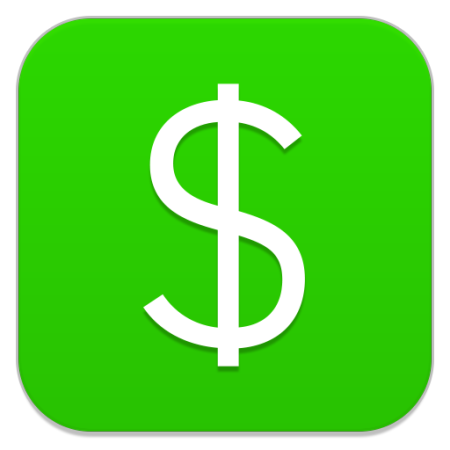
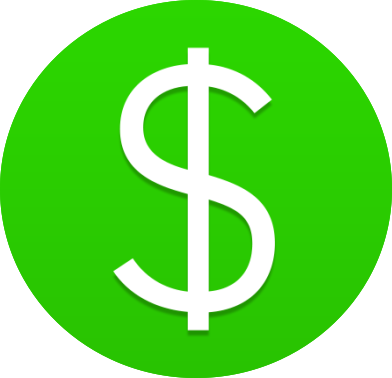
Add my qrcodes

diff --git a/components/PaymentWidget.tsx b/components/PaymentWidget.tsx
@@ -5,12 +5,11 @@ import { useState } from "react";
 
 const RoundImg = styled.img`
   border-radius: 50%;
-  /* margin: 2px; */
   position: absolute;
   left: 0;
   top: 0;
 `;
-const apps = ["venmo.png", "cashapp.png", "venmo.png"];
+const apps = ["venmo.png", "cashapp.png", "wechat.png"];
 
 export function PaymentWidget() {
   const [showAll, setShowAll] = useState(false);
@@ -22,8 +21,9 @@ export function PaymentWidget() {
         position: fixed;
         left: 20px;
         bottom: 20px;
-        /* border-radius: 30%;
-        box-shadow: rgba(0, 0, 0, 0.4) 0px 4px 8px; */
+        border-radius: 100%;
+
+        /* background: transparent; */
         z-index: 99;
         cursor: pointer;
         height: 50px;
@@ -31,7 +31,6 @@ export function PaymentWidget() {
         transition: width 0.5s ease-in-out;
       `}
       onMouseLeave={() => {
-        console.log("mouse leave");
         setShowAll(false);
       }}
       onMouseEnter={(e) => {
@@ -47,6 +46,7 @@ export function PaymentWidget() {
                 opacity: ${i === 0 ? 1 : showAll ? 1 : 0};
                 transform: ${showAll ? `translateX(${60 * i}px)` : 0};
                 transition: all 0.5s ease-in-out;
+                box-shadow: rgba(0, 0, 0, 0.4) 0px 4px 8px;
               `}
               onMouseEnter={(event: any) => {
                 setTargetPaymentIndex(i);
@@ -58,90 +58,28 @@ export function PaymentWidget() {
               width={50}
               height={50}
             />
-            {targetPaymentIndex === i && (
-              <img
-                onMouseEnter={(event: any) => {
-                  setTargetPaymentIndex(i);
-                }}
-                onMouseLeave={() => {
-                  setTargetPaymentIndex(-1);
-                }}
-                css={css`
-                  position: absolute;
-                  bottom: 50px;
-                  left: ${-20 + i * 56}px;
-                  opacity: ${targetPaymentIndex === i && showAll ? 1 : 0};
-                  transition: all 0.2s ease-in;
-                `}
-                width={100}
-                height={100}
-                src="/images/qrcode.jpg"
-              />
-            )}
+            <img
+              onMouseEnter={(event: any) => {
+                setTargetPaymentIndex(i);
+              }}
+              onMouseLeave={() => {
+                setTargetPaymentIndex(-1);
+              }}
+              css={css`
+                visibility: ${targetPaymentIndex === i ? "visible" : "hidden"};
+                position: absolute;
+                bottom: 50px;
+                left: ${-20 + i * 56}px;
+                opacity: ${targetPaymentIndex === i && showAll ? 1 : 0};
+                transition: all 0.3s ease-in-out;
+              `}
+              width={100}
+              height={100}
+              src={`/images/${app.split(".")[0]}_qrcode.jpg`}
+            />
           </div>
         );
       })}
-
-      {/* <RoundImg
-        onMouseEnter={(event: any) => {
-          setTargetPaymentIndex(1);
-        }}
-        onMouseLeave={() => {
-          setTargetPaymentIndex(-1);
-        }}
-        css={css`
-          opacity: ${showAll ? 1 : 0};
-          transform: ${showAll ? "translateX(60px)" : 0};
-          transition: all 0.5s ease-in-out;
-        `}
-        src="/images/cashapp.png"
-        width={50}
-        height={50}
-      />{" "}
-      {targetPaymentIndex !== -1 && (
-        <img
-          width={100}
-          height={100}
-          css={css`
-            position: absolute;
-            bottom: 0px;
-            left: 30px;
-            opacity: ${targetPaymentIndex === 1 && showAll ? 1 : 0};
-            transition: all 0.2s ease-in;
-          `}
-          src="/images/venmo.jpg"
-        />
-      )}
-      <RoundImg
-        onMouseEnter={(event: any) => {
-          setTargetPaymentIndex(2);
-        }}
-        onMouseLeave={() => {
-          setTargetPaymentIndex(-1);
-        }}
-        css={css`
-          opacity: ${showAll ? 1 : 0};
-          transform: ${showAll ? "translateX(120px)" : 0};
-          transition: all 0.5s ease-in-out;
-        `}
-        src="/images/venmo.png"
-        width={50}
-        height={50}
-      />
-      {targetPaymentIndex !== -1 && (
-        <img
-          width={100}
-          height={100}
-          css={css`
-            position: absolute;
-            bottom: 0px;
-            left: 90px;
-            opacity: ${targetPaymentIndex === 2 && showAll ? 1 : 0};
-            transition: all 0.2s ease-in;
-          `}
-          src="/images/venmo.jpg"
-        />
-      )} */}
     </div>
   );
 }
